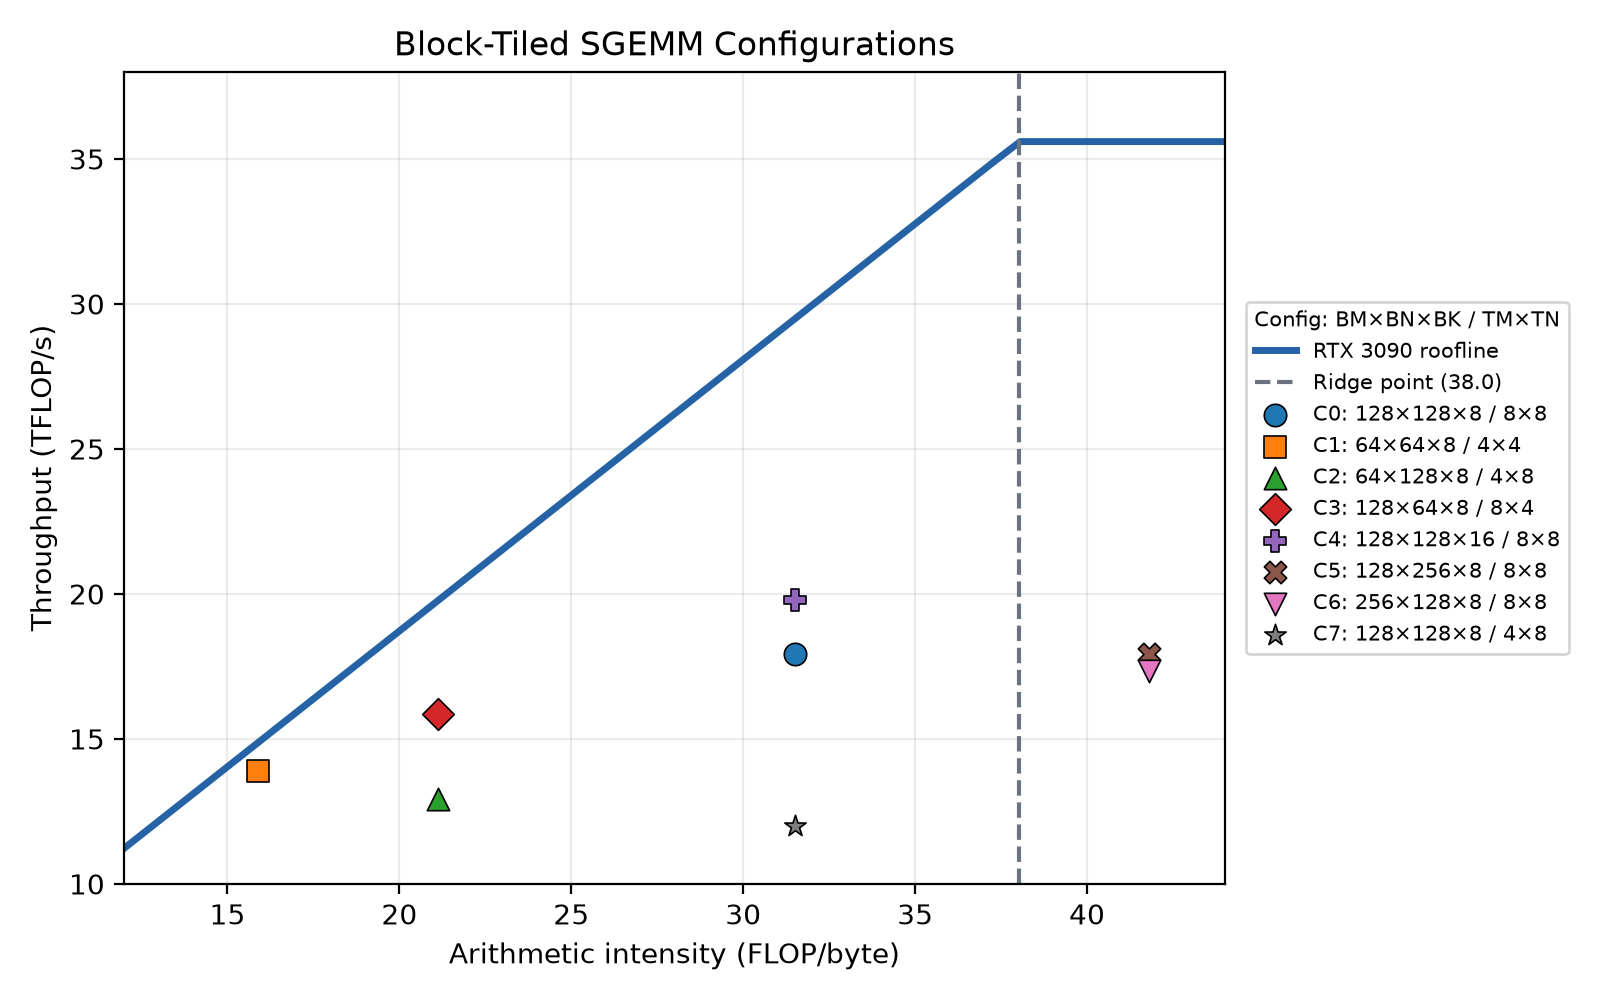
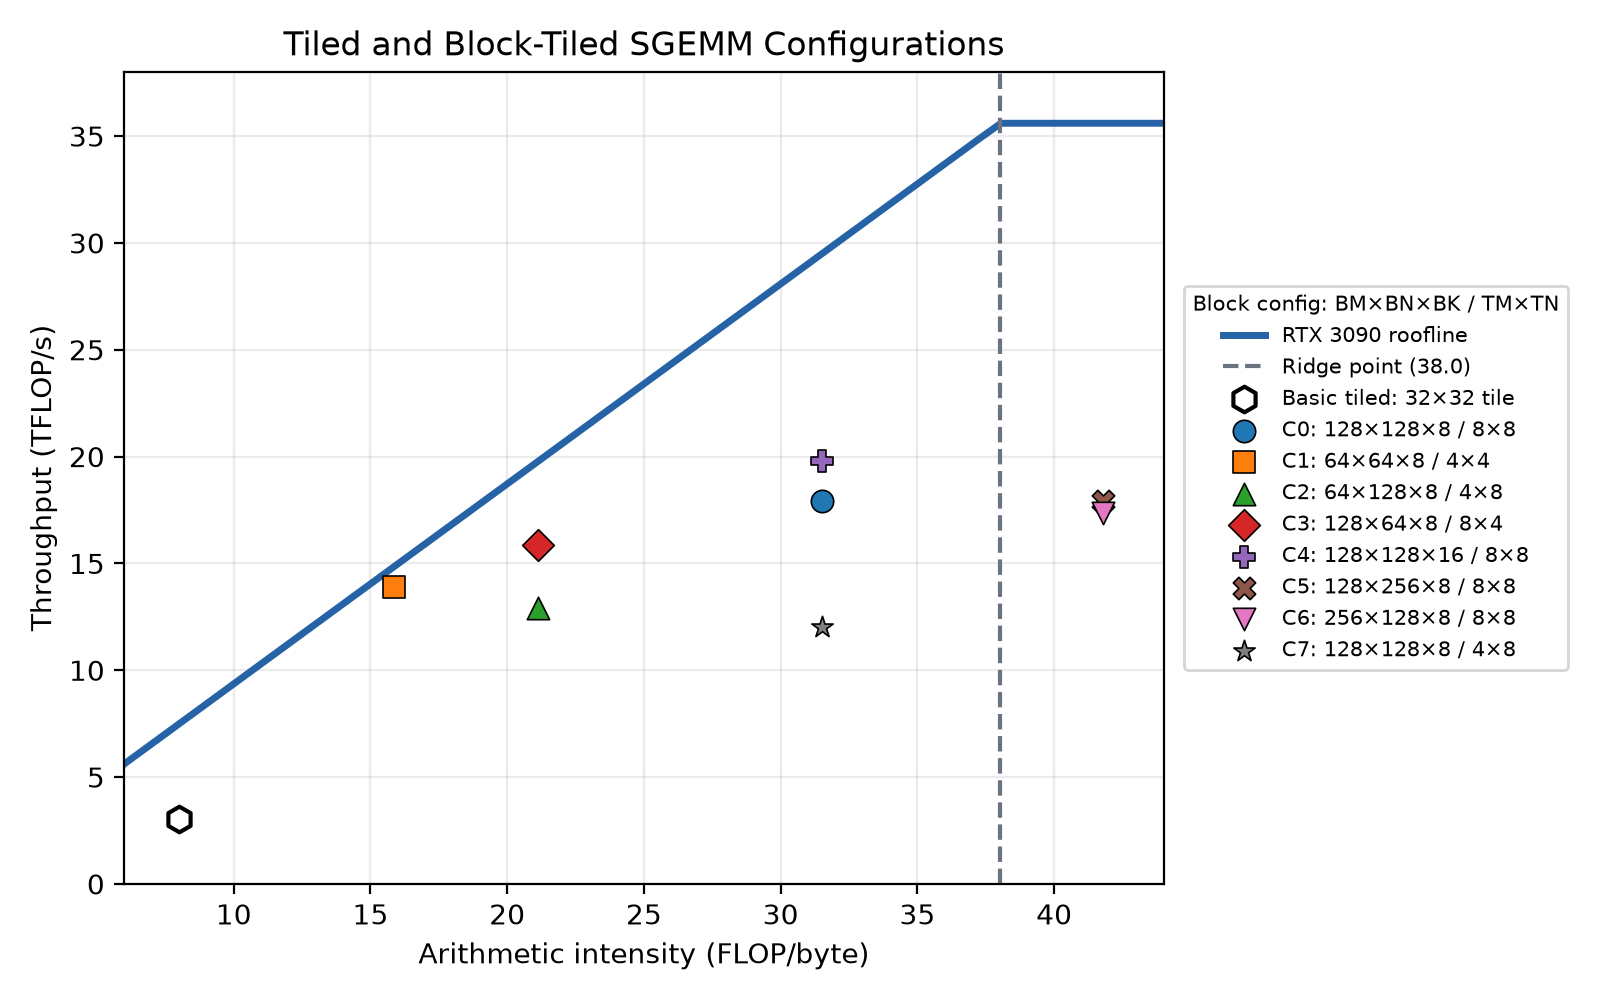
Include basic tiling in configuration roofline

diff --git a/src/cs4630/plots.py b/src/cs4630/plots.py
@@ -240,7 +240,7 @@ def main():
     roofline_intensities = [
         2 ** (step / 32)
         for step in range(
-            int(32 * 3.5), int(32 * 5.6) + 1
+            int(32 * 2.5), int(32 * 5.6) + 1
         )
     ]
     block_tiling_roofline = [
@@ -260,6 +260,17 @@ def main():
         linestyle="--",
         linewidth=1.5,
         label=f"Ridge point ({ridge_point:.1f})",
+    )
+    axis.scatter(
+        tiled_intensity,
+        tiled_tflops[-1],
+        s=85,
+        marker="h",
+        facecolor="white",
+        edgecolor="black",
+        linewidth=1.5,
+        zorder=4,
+        label="Basic tiled: 32×32 tile",
     )
 
     markers = ["o", "s", "^", "D", "P", "X", "v", "*"]
@@ -284,17 +295,17 @@ def main():
             label=config_label,
         )
 
-    axis.set_xlim(12, 44)
-    axis.set_ylim(10, 38)
+    axis.set_xlim(6, 44)
+    axis.set_ylim(0, 38)
     axis.set_xlabel("Arithmetic intensity (FLOP/byte)")
     axis.set_ylabel("Throughput (TFLOP/s)")
-    axis.set_title("Block-Tiled SGEMM Configurations")
+    axis.set_title("Tiled and Block-Tiled SGEMM Configurations")
     axis.grid(True, alpha=0.25)
     axis.legend(
         loc="center left",
         bbox_to_anchor=(1.01, 0.5),
         fontsize=7.5,
-        title="Config: BM×BN×BK / TM×TN",
+        title="Block config: BM×BN×BK / TM×TN",
         title_fontsize=7.5,
     )
     fig.tight_layout()

diff --git a/presentation/main.tex b/presentation/main.tex
@@ -829,7 +829,7 @@ for (int bkIdx = 0; bkIdx < K; bkIdx += BLOCKSIZE) {
 \end{frame}
 
 \begin{frame}
-  \frametitle{Block-tiled configurations on the roofline}
+  \frametitle{Tiling configurations on the roofline}
   \centering
   \includegraphics[width=0.96\textwidth]{blocktiling_config_roofline.png}
 \end{frame}
